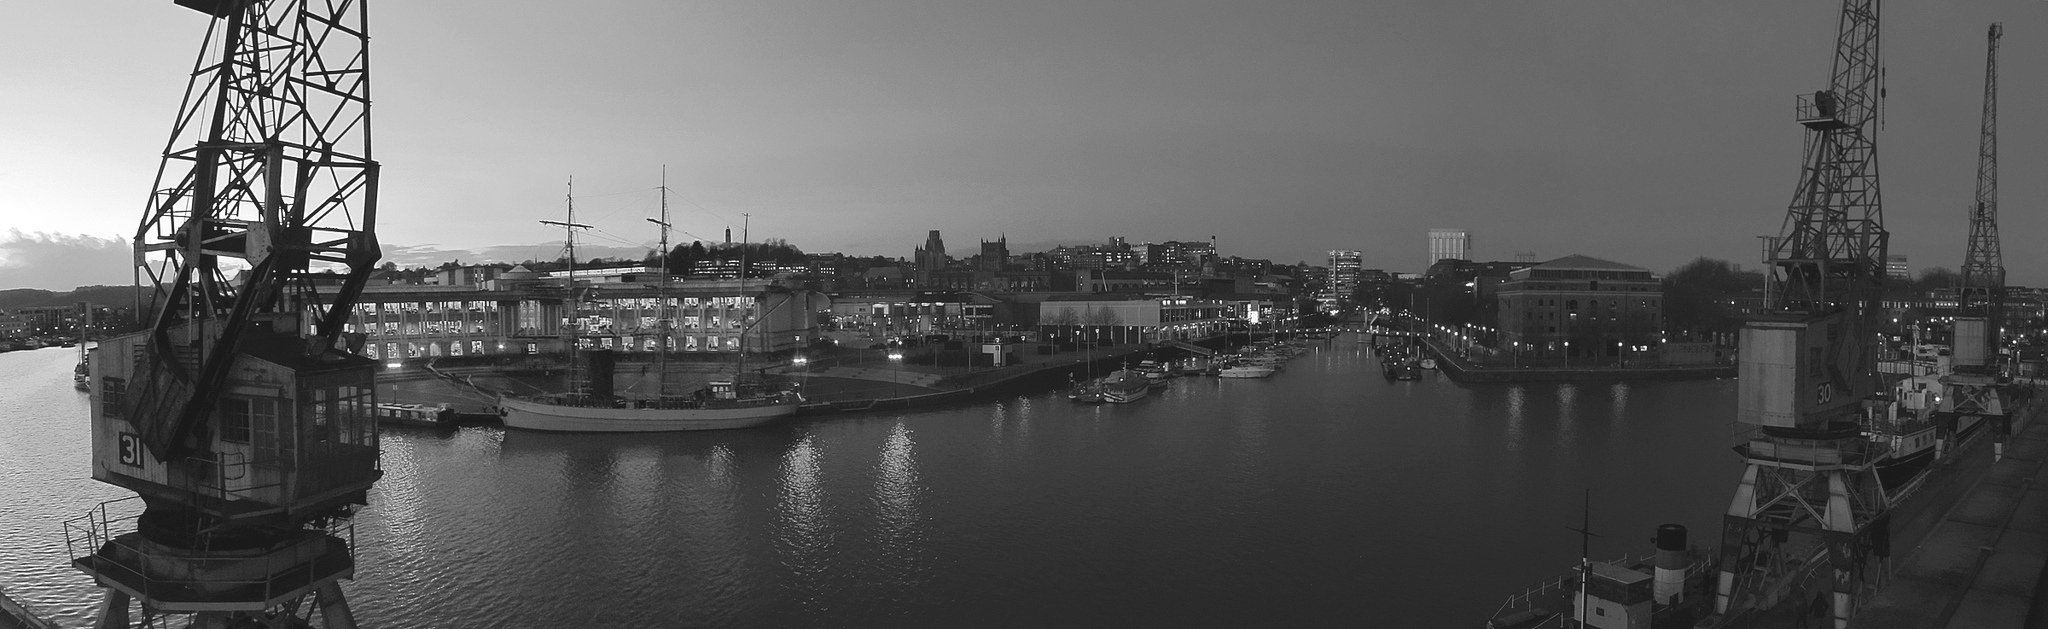
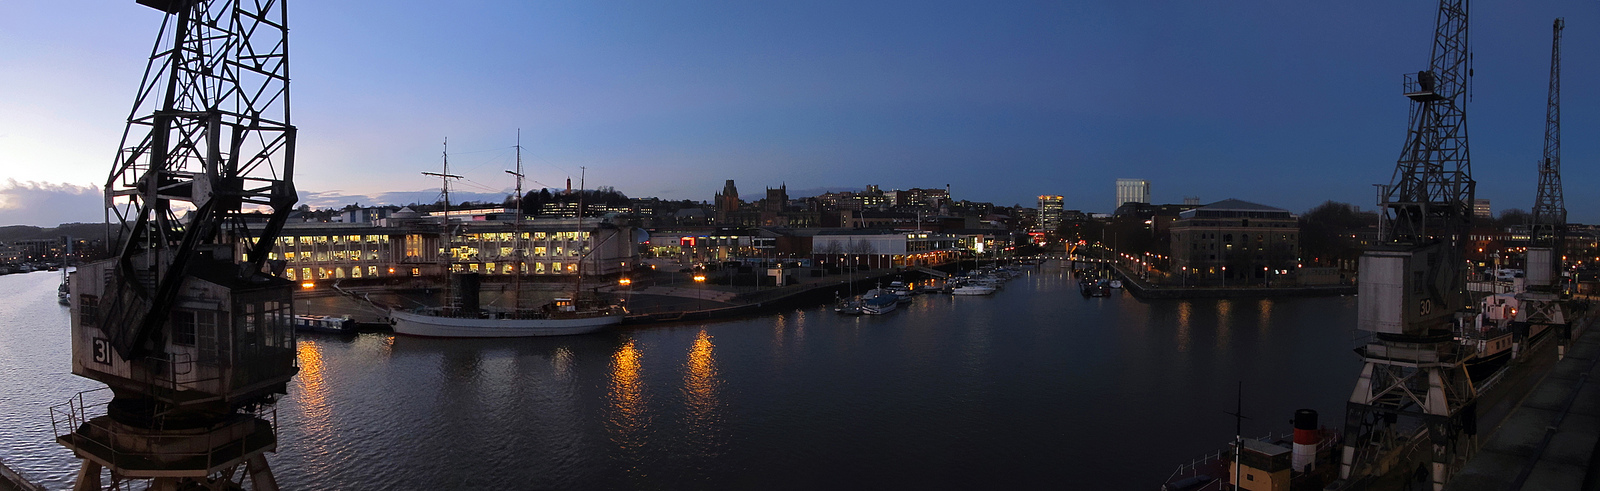
change image, edit description

diff --git a/bristol/index.md b/bristol/index.md
@@ -12,10 +12,6 @@ widget_id: 487546567449010176
 
 Bristol: home of Banksy, Aardman, Concorde and great cider. And, after London, the UK's leading hub of digital enterprise. In 2013, we set up [CodeHub](http://www.codehub.org.uk) to create a space for developers to learn from one another. Seeing that it was quite similar to OpenTechSchool, we decided to join the global network.
 
-We are part of a proud culture of technical groups and meetups. Check out:<br />
-- Bristol WebFolk's [calendar of tech events](http://bristolwebfolk.github.io/calendar/)<br />
-- Possibly Bristol's longest-running series of web tech events, [Skillswap](http://bristolskillswap.org/)
+There are many technical groups and meetups in Bristol. Check out Bristol WebFolk's [calendar of tech events](http://bristolwebfolk.github.io/calendar/) and possibly Bristol's longest-running series of web tech events, [Skillswap](http://bristolskillswap.org/).
 
-<span style="color: #777; font-size: smaller">(Original colour image by [Andrew Gustar](https://www.flickr.com/photos/andrewgustar/11858749486), used under [CC BY](http://creativecommons.org/licenses/by/2.0/))</span>
-
-
+<span style="color: #777; font-size: smaller">Image: [Bristol Waterfront - Dawn or Dusk](https://www.flickr.com/photos/andrewgustar/11858749486) by [Andrew Gustar](https://www.flickr.com/photos/andrewgustar/) used under [CC BY](http://creativecommons.org/licenses/by/2.0/)</span>
